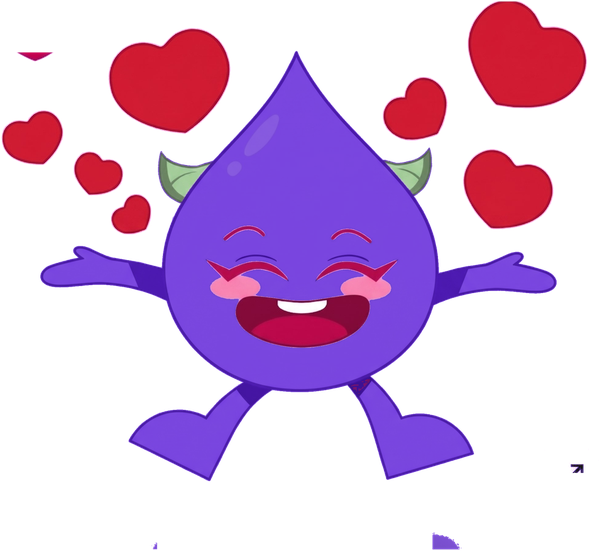
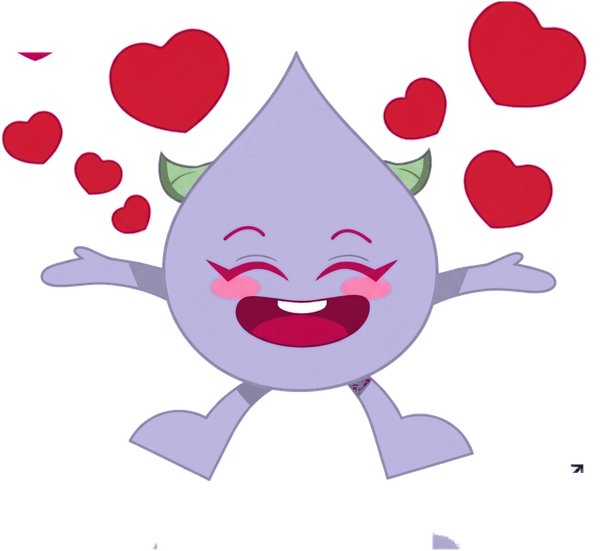
Design tweaks: bigger mascot, lavender character, periwinkle score
- Mascot enlarged in the Analysis header (88 -> 150px).
- Recoloured the mascot art to #D7CEFF (violet body + outline shifted to a soft
  lavender, shading preserved; hearts/leaf/star/cheeks left as-is) via an added
  recolour pass in scripts/process-mascot.py.
- Overall happiness score numeral recoloured to #8B82F6.

diff --git a/components/kit/BigScore.tsx b/components/kit/BigScore.tsx
@@ -16,7 +16,7 @@ export function BigScore({
       <p className="text-[11px] font-medium uppercase tracking-wider text-brand">
         {caption ?? "Overall Happiness"}
       </p>
-      <span className="block font-display text-[68px] font-black leading-none tracking-tight text-ink">
+      <span className="block font-display text-[68px] font-black leading-none tracking-tight text-[#8B82F6]">
         <CountUp target={score} />
       </span>
       <p className="mt-1.5 text-xs font-semibold text-ink-2">

diff --git a/app/(app)/dashboard/employee/AnalysisView.tsx b/app/(app)/dashboard/employee/AnalysisView.tsx
@@ -71,7 +71,7 @@ export function AnalysisView({
         eyebrow="Individual"
         title={mode === "company" ? "My Dashboard" : "Overall Career Happiness"}
         subtitle={mode === "company" ? "Current company" : "Aggregate across your career"}
-        avatar={<Mascot state={mascotForScore(data.overall, data.enoughData)} size={88} />}
+        avatar={<Mascot state={mascotForScore(data.overall, data.enoughData)} size={150} />}
       />
 
       <Card>

diff --git a/scripts/process-mascot.py b/scripts/process-mascot.py
@@ -13,8 +13,11 @@ Per image:
 
 Run from repo root:  python3 scripts/process-mascot.py
 """
+import colorsys
 import os
 from collections import deque
+
+import numpy as np
 from PIL import Image
 
 SRC = "Mascot"
@@ -22,6 +25,39 @@ OUT = "public/mascot"
 WORK = 1200          # working resolution for the flood-fill pass
 FINAL = 600          # longest side of the output
 THRESH_DEFAULT = 48  # colour distance counted as "same as background"
+
+# Recolour the character's violet body/outline to this lavender (shading kept).
+# Set RECOLOR = None to skip and use the original purple art.
+RECOLOR = "#D7CEFF"
+
+
+def _hex(h):
+    h = h.lstrip("#")
+    return tuple(int(h[i:i + 2], 16) for i in (0, 2, 4))
+
+
+def recolor(im: Image.Image, target_hex: str) -> Image.Image:
+    """Shift only the violet pixels (body, limbs, outline) to `target_hex`,
+    keeping each pixel's brightness so shading survives. Reds/greens/yellows
+    (hearts, leaf, star, cheeks) and near-greys (eyes) are left alone."""
+    im = im.convert("RGBA")
+    alpha = im.getchannel("A")
+    hsv = np.asarray(im.convert("RGB").convert("HSV")).astype(np.int16)
+    H, S, V = hsv[..., 0], hsv[..., 1], hsv[..., 2]  # each 0–255
+
+    tr, tg, tb = _hex(target_hex)
+    th, ts, _tv = colorsys.rgb_to_hsv(tr / 255, tg / 255, tb / 255)
+    th255, ts255 = int(th * 255), int(ts * 255)
+
+    # violet hue band (~215°–290°) and saturated enough to be "the character"
+    mask = (H >= 150) & (H <= 205) & (S >= 64)
+    H[mask] = th255
+    S[mask] = ts255  # keep V (brightness) → shading preserved
+
+    out = np.stack([H, S, V], axis=-1).astype("uint8")
+    rgb = Image.fromarray(out, "HSV").convert("RGB").convert("RGBA")
+    rgb.putalpha(alpha)
+    return rgb
 
 # source filename -> (output name, threshold override)
 JOBS = {
@@ -81,6 +117,9 @@ def process(src_name, out_name, thresh):
     global BG
     path = os.path.join(SRC, src_name)
     im = Image.open(path).convert("RGBA")
+
+    if RECOLOR:
+        im = recolor(im, RECOLOR)
 
     # working downscale
     im.thumbnail((WORK, WORK), Image.LANCZOS)
